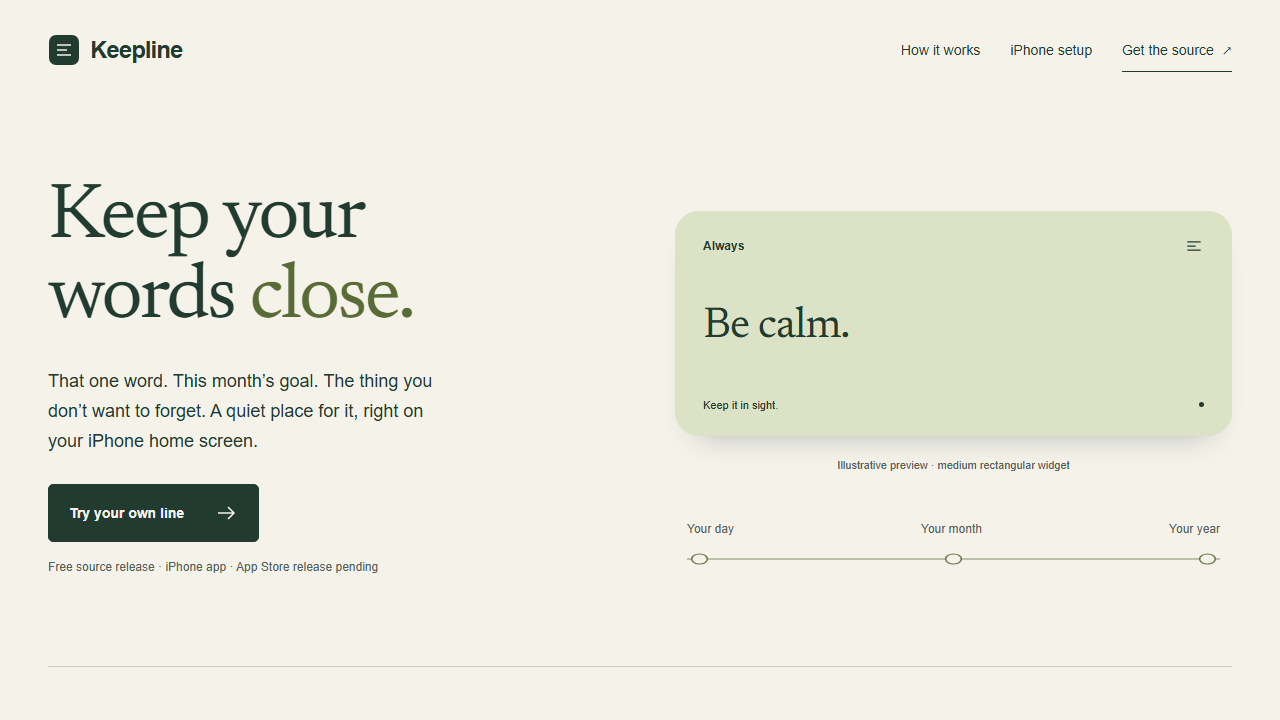
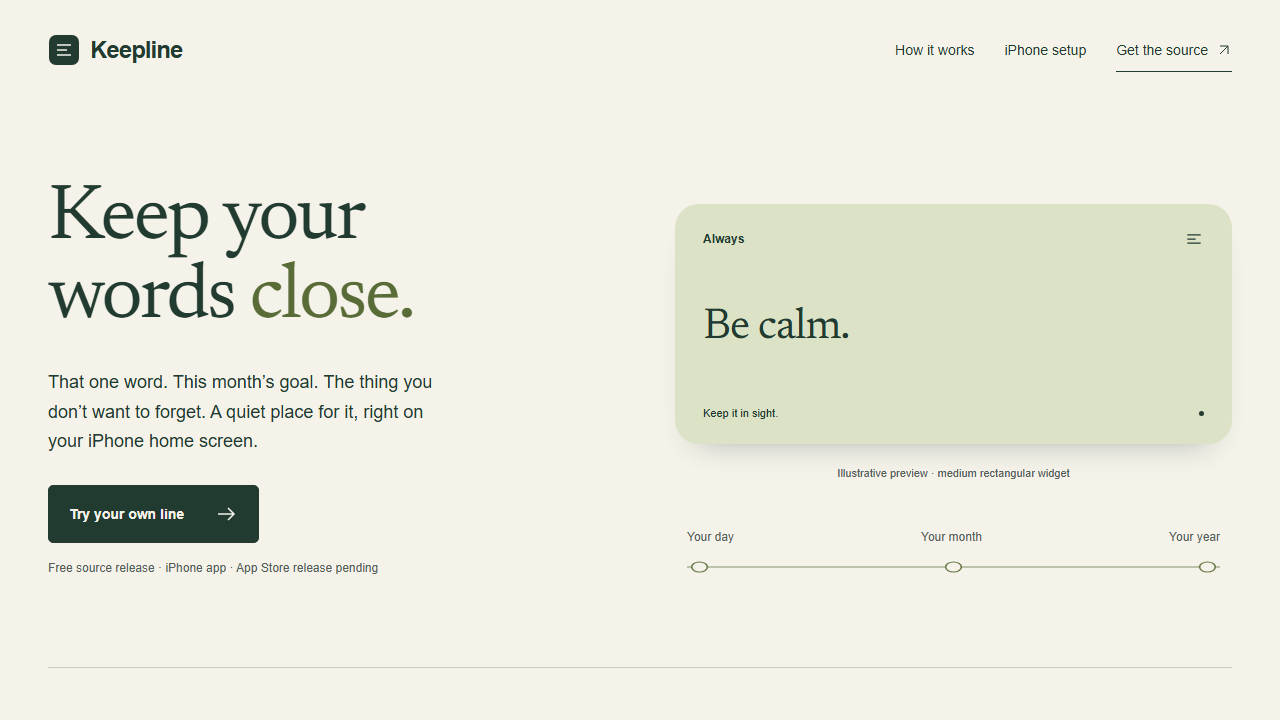
fix: bound previews and configure simulator tests

diff --git a/site/src/style.css b/site/src/style.css
@@ -1,6 +1,8 @@
 @font-face{font-family:Newsreader;src:url('/fonts/newsreader-latin.woff2') format('woff2');font-style:normal;font-weight:200 800;font-display:swap}
 :root{font-family:Arial,Helvetica,sans-serif;color:#223b31;background:#f4f2e9;font-synthesis:none;--ink:#223b31;--paper:#f4f2e9;--muted:#536259;--rule:#c9cec0;--tint:#dce2c6}
-*{box-sizing:border-box}html{scroll-behavior:smooth;scroll-padding-top:24px}body{margin:0}a{color:inherit;text-underline-offset:5px}button,input,textarea,select{font:inherit}button,a,input,textarea,select{-webkit-tap-highlight-color:transparent}a:focus-visible,button:focus-visible,input:focus-visible,textarea:focus-visible,select:focus-visible{outline:3px solid #a54b2d;outline-offset:4px}button{cursor:pointer}button:disabled{cursor:not-allowed;opacity:.55}button:disabled:focus{outline:3px solid #a54b2d}svg{width:24px;height:24px;fill:none;stroke:currentColor;stroke-width:1.5;flex:none}.skip{position:absolute;left:16px;top:-100px;z-index:10;background:var(--ink);color:white;padding:16px}.skip:focus{top:12px}header{max-width:1280px;margin:auto;padding:28px 48px;display:flex;align-items:center;justify-content:space-between}.brand{display:inline-flex;align-items:center;gap:10px;font-size:24px;letter-spacing:-.04em;font-weight:600;text-decoration:none}.brand svg{width:32px;height:32px}.brand rect{fill:var(--ink);stroke:none}.brand path{stroke:var(--paper);stroke-width:1.5}nav{display:flex;gap:30px;align-items:center;font-size:14px}nav a{min-height:44px;display:flex;align-items:center;text-decoration:none}.source{border-bottom:1px solid var(--ink);gap:8px}main{max-width:1280px;margin:auto}section{margin:0 48px}.hero{display:grid;grid-template-columns:1fr 1fr;gap:70px;padding:80px 0 88px;align-items:center}.hero h1{font-family:Newsreader,Georgia,serif;font-weight:400;letter-spacing:-.035em;font-size:clamp(3.5rem,6.1vw,5.5rem);line-height:1.02;margin:0 0 28px}.hero h1 em{font-style:normal;color:#596c37}.intro{font-size:18px;line-height:1.65;max-width:390px;margin:0 0 28px}.button{border:1px solid var(--ink);background:var(--ink);color:var(--paper);padding:16px 20px;text-decoration:none;display:inline-flex;align-items:center;justify-content:space-between;gap:30px;min-height:52px;font-size:14px;font-weight:600;border-radius:5px;transition:background .15s}.button:hover{background:#3a5748}.availability{color:var(--muted);font-size:12px;line-height:1.6;margin:16px 0 0}.widget-stage{padding-top:24px}.widget{background:var(--tint);border-radius:24px;padding:25px 28px;min-height:225px;display:flex;flex-direction:column;justify-content:space-between;box-shadow:0 18px 30px -24px #223b3170;position:relative}.widget-top,.widget-bottom{display:flex;justify-content:space-between;align-items:center;font-size:12px}.widget-top{font-weight:600}.widget-top svg{width:20px;height:20px}.widget p{font-family:Newsreader,Georgia,serif;font-size:clamp(1.4rem,3.4vw,3rem);letter-spacing:-.025em;line-height:1.16;margin:30px 0;overflow-wrap:anywhere;white-space:normal}.widget-bottom{font-size:11px}.small-dot{width:5px;height:5px;background:var(--ink);border-radius:50%}.widget-caption{font-size:11px;color:var(--muted);text-align:center;margin:20px 0 48px}.horizon{display:flex;justify-content:space-between;position:relative;gap:10px;font-size:12px;padding-bottom:35px;margin:0 12px;color:var(--muted)}.horizon svg{position:absolute;width:100%;height:24px;bottom:0;left:0;stroke:#84906b;stroke-width:1}.horizon circle{fill:var(--paper);stroke:#657744}.try{display:grid;grid-template-columns:1fr 1fr;gap:70px;border-top:1px solid var(--rule);padding:65px 0 70px}h2{font-family:Newsreader,Georgia,serif;font-size:38px;line-height:1.12;letter-spacing:-.025em;font-weight:400;margin:0 0 22px}p{line-height:1.65}.try>div>p{font-size:16px;max-width:370px}.quiet{color:var(--muted);font-size:13px!important;max-width:350px!important}label{display:block;font-size:13px;font-weight:600;margin-bottom:10px}textarea,input,select{border:1px solid #84917c;border-radius:5px;background:#fffdf6;color:var(--ink);padding:14px;min-height:48px;width:100%}textarea{resize:vertical;font-family:Newsreader,Georgia,serif;font-size:24px;line-height:1.3}textarea::placeholder{color:#657166}input[aria-invalid],textarea[aria-invalid]{border-color:#a54b2d}.field-foot{display:flex;justify-content:space-between;gap:12px;color:var(--muted);font-size:11px;margin:10px 0 24px}.period-row{display:flex;align-items:center;justify-content:space-between;gap:16px}.period-row select{width:58%;font-size:14px}.period-row label{margin:0}.date-fields{display:grid;grid-template-columns:1fr 1fr;gap:16px;margin:20px 0}.date-fields[hidden]{display:none}.form-actions{display:flex;align-items:center;gap:24px;flex-wrap:wrap;margin-top:24px}.text-button{background:none;border:0;text-decoration:underline;text-underline-offset:5px;color:var(--ink);padding:14px 0;min-height:48px;font-size:13px}#form-status{font-size:12px;color:var(--muted);margin:14px 0 0;min-height:40px}.how{padding:60px 0 65px;border-top:1px solid var(--rule)}.how h2{margin-bottom:42px}.steps{display:grid;grid-template-columns:repeat(3,1fr);gap:40px}.step-mark{display:inline-flex;width:30px;height:30px;border:1px solid #84917c;align-items:center;justify-content:center;border-radius:50%;font-size:13px;margin-bottom:14px}h3{font-size:17px;font-weight:600;margin:0 0 12px}.steps p{font-size:14px;color:var(--muted);max-width:280px}.timing{font-size:13px;max-width:780px;margin:32px 0 0;border-top:1px solid var(--rule);padding-top:22px;color:var(--muted)}.setup{background:var(--ink);color:var(--paper);margin:0;padding:65px 48px;display:grid;grid-template-columns:1fr 1fr;gap:70px}.setup>div>p{font-size:14px;max-width:365px;margin-bottom:30px}.setup .button{border-color:var(--paper);background:transparent}.setup .button:hover{background:#3a5748}.setup ol{padding-left:22px;margin:0;display:grid;gap:20px}.setup li{padding-left:10px;font-size:14px}.setup li p{font-size:13px;color:#d4dcd1;margin:8px 0 0}.privacy{display:grid;grid-template-columns:1fr 1fr;gap:70px;padding:68px 0}.privacy p{font-size:14px;color:var(--muted);margin:0 0 18px;max-width:470px}.privacy a{font-size:13px}footer{max-width:1280px;margin:auto;border-top:1px solid var(--rule);padding:28px 48px;display:flex;align-items:center;gap:28px;font-size:12px}footer .brand{font-size:20px}footer p{margin-right:auto;color:var(--muted)}footer a:not(.brand){min-height:44px;display:inline-flex;align-items:center}::selection{background:#dce2c6;color:var(--ink)}
-@media(max-width:800px){header{padding:20px 24px}nav{gap:20px}nav a:first-child{display:none}section{margin:0 24px}.hero{gap:32px;padding:55px 0 65px}.hero h1{font-size:62px}.intro{font-size:16px}.widget{padding:22px;min-height:205px}.try,.privacy{gap:32px}.try{padding:50px 0}.setup{margin:0;padding:50px 24px;gap:32px}.steps{gap:24px}footer{padding:24px;gap:20px;flex-wrap:wrap}footer p{margin:0 auto 0 0}}
-@media(max-width:580px){header{padding:18px 22px}.brand{font-size:22px}nav{gap:12px}nav a:nth-child(2){display:none}.source{font-size:12px}section{margin:0 22px}.hero{grid-template-columns:1fr;gap:25px;padding:35px 0 45px}.hero h1{font-size:66px;line-height:1.02;margin-bottom:22px}.intro{font-size:16px;max-width:320px}.availability{font-size:11px}.widget-stage{padding-top:10px}.widget{min-height:190px;border-radius:22px;padding:22px}.widget p{font-size:36px;margin:25px 0}.widget-caption{margin-bottom:26px}.horizon{margin:0 8px}.try,.privacy{grid-template-columns:1fr;gap:24px;padding:42px 0}h2{font-size:34px}.try>div>p{margin:0 0 14px}.steps{grid-template-columns:1fr;gap:20px}.how{padding:42px 0}.how h2{margin-bottom:28px}.steps article{display:grid;grid-template-columns:30px 1fr;column-gap:15px}.steps h3{margin:6px 0 8px}.steps p{grid-column:2;max-width:100%;margin:0}.step-mark{margin:0}.timing{margin-top:26px}.setup{grid-template-columns:1fr;margin:0;padding:42px 22px;gap:32px}.setup h2{font-size:34px}.setup ol{gap:24px}.privacy h2{margin-bottom:0}footer{padding:22px;gap:12px 22px}footer p{width:60%;font-size:11px}footer a:not(.brand){font-size:11px}.form-actions{gap:18px}.button{gap:18px}textarea{font-size:22px}}
+*{box-sizing:border-box}html{scroll-behavior:smooth;scroll-padding-top:24px}body{margin:0}a{color:inherit;text-underline-offset:5px}button,input,textarea,select{font:inherit}button,a,input,textarea,select{-webkit-tap-highlight-color:transparent}a:focus-visible,button:focus-visible,input:focus-visible,textarea:focus-visible,select:focus-visible{outline:3px solid #a54b2d;outline-offset:4px}button{cursor:pointer}button:disabled{cursor:not-allowed;opacity:.55}button:disabled:focus{outline:3px solid #a54b2d}svg{width:24px;height:24px;fill:none;stroke:currentColor;stroke-width:1.5;flex:none}.skip{position:absolute;left:16px;top:-100px;z-index:10;background:var(--ink);color:white;padding:16px}.skip:focus{top:12px}header{max-width:1280px;margin:auto;padding:28px 48px;display:flex;align-items:center;justify-content:space-between}.brand{display:inline-flex;align-items:center;gap:10px;font-size:24px;letter-spacing:-.04em;font-weight:600;text-decoration:none}.brand svg{width:32px;height:32px}.brand rect{fill:var(--ink);stroke:none}.brand path{stroke:var(--paper);stroke-width:1.5}nav{display:flex;gap:30px;align-items:center;font-size:14px}nav a{min-height:44px;display:flex;align-items:center;text-decoration:none}.source{border-bottom:1px solid var(--ink);gap:8px}main{max-width:1280px;margin:auto}section{margin:0 48px}.hero{display:grid;grid-template-columns:1fr 1fr;gap:70px;padding:80px 0 88px;align-items:center}.hero h1{font-family:Newsreader,Georgia,serif;font-weight:400;letter-spacing:-.035em;font-size:clamp(3.5rem,6.1vw,5.5rem);line-height:1.02;margin:0 0 28px}.hero h1 em{font-style:normal;color:#596c37}.intro{font-size:18px;line-height:1.65;max-width:390px;margin:0 0 28px}.button{border:1px solid var(--ink);background:var(--ink);color:var(--paper);padding:16px 20px;text-decoration:none;display:inline-flex;align-items:center;justify-content:space-between;gap:30px;min-height:52px;font-size:14px;font-weight:600;border-radius:5px;transition:background .15s}.button:hover{background:#3a5748}.availability{color:var(--muted);font-size:12px;line-height:1.6;margin:16px 0 0}.widget-stage{padding-top:24px}.widget{background:var(--tint);border-radius:24px;padding:25px 28px;height:240px;display:flex;flex-direction:column;justify-content:space-between;box-shadow:0 18px 30px -24px #223b3170;position:relative}.widget-top,.widget-bottom{display:flex;justify-content:space-between;align-items:center;font-size:12px}.widget-top{font-weight:600}.widget-top svg{width:20px;height:20px}.widget p{font-family:Newsreader,Georgia,serif;font-size:clamp(1.4rem,3.4vw,3rem);letter-spacing:-.025em;line-height:1.16;margin:30px 0;overflow-wrap:anywhere;white-space:normal}.widget-bottom{font-size:11px}.small-dot{width:5px;height:5px;background:var(--ink);border-radius:50%}.widget-caption{font-size:11px;color:var(--muted);text-align:center;margin:20px 0 48px}.horizon{display:flex;justify-content:space-between;position:relative;gap:10px;font-size:12px;padding-bottom:35px;margin:0 12px;color:var(--muted)}.horizon svg{position:absolute;width:100%;height:24px;bottom:0;left:0;stroke:#84906b;stroke-width:1}.horizon circle{fill:var(--paper);stroke:#657744}.try{display:grid;grid-template-columns:1fr 1fr;gap:70px;border-top:1px solid var(--rule);padding:65px 0 70px}h2{font-family:Newsreader,Georgia,serif;font-size:38px;line-height:1.12;letter-spacing:-.025em;font-weight:400;margin:0 0 22px}p{line-height:1.65}.try>div>p{font-size:16px;max-width:370px}.quiet{color:var(--muted);font-size:13px!important;max-width:350px!important}label{display:block;font-size:13px;font-weight:600;margin-bottom:10px}textarea,input,select{border:1px solid #84917c;border-radius:5px;background:#fffdf6;color:var(--ink);padding:14px;min-height:48px;width:100%}textarea{resize:vertical;font-family:Newsreader,Georgia,serif;font-size:24px;line-height:1.3}textarea::placeholder{color:#657166}input[aria-invalid],textarea[aria-invalid]{border-color:#a54b2d}.field-foot{display:flex;justify-content:space-between;gap:12px;color:var(--muted);font-size:11px;margin:10px 0 24px}.period-row{display:flex;align-items:center;justify-content:space-between;gap:16px}.period-row select{width:58%;font-size:14px}.period-row label{margin:0}.date-fields{display:grid;grid-template-columns:1fr 1fr;gap:16px;margin:20px 0}.date-fields[hidden]{display:none}.form-actions{display:flex;align-items:center;gap:24px;flex-wrap:wrap;margin-top:24px}.text-button{background:none;border:0;text-decoration:underline;text-underline-offset:5px;color:var(--ink);padding:14px 0;min-height:48px;font-size:13px}#form-status{font-size:12px;color:var(--muted);margin:14px 0 0;min-height:40px}.how{padding:60px 0 65px;border-top:1px solid var(--rule)}.how h2{margin-bottom:42px}.steps{display:grid;grid-template-columns:repeat(3,1fr);gap:40px}.step-mark{display:inline-flex;width:30px;height:30px;border:1px solid #84917c;align-items:center;justify-content:center;border-radius:50%;font-size:13px;margin-bottom:14px}h3{font-size:17px;font-weight:600;margin:0 0 12px}.steps p{font-size:14px;color:var(--muted);max-width:280px}.timing{font-size:13px;max-width:780px;margin:32px 0 0;border-top:1px solid var(--rule);padding-top:22px;color:var(--muted)}.setup{background:var(--ink);color:var(--paper);margin:0;padding:65px 48px;display:grid;grid-template-columns:1fr 1fr;gap:70px}.setup>div>p{font-size:14px;max-width:365px;margin-bottom:30px}.setup .button{border-color:var(--paper);background:transparent}.setup .button:hover{background:#3a5748}.setup ol{padding-left:22px;margin:0;display:grid;gap:20px}.setup li{padding-left:10px;font-size:14px}.setup li p{font-size:13px;color:#d4dcd1;margin:8px 0 0}.privacy{display:grid;grid-template-columns:1fr 1fr;gap:70px;padding:68px 0}.privacy p{font-size:14px;color:var(--muted);margin:0 0 18px;max-width:470px}.privacy a{font-size:13px}footer{max-width:1280px;margin:auto;border-top:1px solid var(--rule);padding:28px 48px;display:flex;align-items:center;gap:28px;font-size:12px}footer .brand{font-size:20px}footer p{margin-right:auto;color:var(--muted)}footer a:not(.brand){min-height:44px;display:inline-flex;align-items:center}::selection{background:#dce2c6;color:var(--ink)}
+@media(max-width:800px){header{padding:20px 24px}nav{gap:20px}nav a:first-child{display:none}section{margin:0 24px}.hero{gap:32px;padding:55px 0 65px}.hero h1{font-size:62px}.intro{font-size:16px}.widget{padding:22px;height:240px}.try,.privacy{gap:32px}.try{padding:50px 0}.setup{margin:0;padding:50px 24px;gap:32px}.steps{gap:24px}footer{padding:24px;gap:20px;flex-wrap:wrap}footer p{margin:0 auto 0 0}}
+@media(max-width:580px){header{padding:18px 22px}.brand{font-size:22px}nav{gap:12px}nav a:nth-child(2){display:none}.source{font-size:12px}section{margin:0 22px}.hero{grid-template-columns:1fr;gap:25px;padding:35px 0 45px}.hero h1{font-size:66px;line-height:1.02;margin-bottom:22px}.intro{font-size:16px;max-width:320px}.availability{font-size:11px}.widget-stage{padding-top:10px}.widget{height:210px;border-radius:22px;padding:22px}.widget p{font-size:36px;margin:25px 0}.widget-caption{margin-bottom:26px}.horizon{margin:0 8px}.try,.privacy{grid-template-columns:1fr;gap:24px;padding:42px 0}h2{font-size:34px}.try>div>p{margin:0 0 14px}.steps{grid-template-columns:1fr;gap:20px}.how{padding:42px 0}.how h2{margin-bottom:28px}.steps article{display:grid;grid-template-columns:30px 1fr;column-gap:15px}.steps h3{margin:6px 0 8px}.steps p{grid-column:2;max-width:100%;margin:0}.step-mark{margin:0}.timing{margin-top:26px}.setup{grid-template-columns:1fr;margin:0;padding:42px 22px;gap:32px}.setup h2{font-size:34px}.setup ol{gap:24px}.privacy h2{margin-bottom:0}footer{padding:22px;gap:12px 22px}footer p{width:60%;font-size:11px}footer a:not(.brand){font-size:11px}.form-actions{gap:18px}.button{gap:18px}textarea{font-size:22px}}
 @media(prefers-reduced-motion:reduce){html{scroll-behavior:auto}*{transition:none!important}}
+
+.widget p{display:-webkit-box;-webkit-box-orient:vertical;-webkit-line-clamp:4;overflow:hidden;margin:12px 0;flex-shrink:1;min-height:0}.widget p.long-line{font-size:22px;line-height:1.15}.inline-preview{display:none}.source svg,.external-link svg{width:16px;height:16px}.external-link{display:inline-flex;align-items:center;gap:8px}@media(max-width:580px){.inline-preview{display:block;margin:0 0 22px}.inline-preview .widget{height:180px;padding:18px 22px;box-shadow:none}.inline-preview .widget p{font-size:30px}.inline-preview .widget p.long-line{font-size:18px}.inline-caption{font-size:11px;color:var(--muted);margin:10px 0}.widget p.long-line{font-size:20px}}

diff --git a/site/index.html b/site/index.html
@@ -12,7 +12,7 @@
     <a class="skip" href="#main">Skip to content</a>
     <header>
       <a class="brand" href="#main" aria-label="Keepline home"><svg viewBox="0 0 32 32" aria-hidden="true"><rect x="1" y="1" width="30" height="30" rx="7"/><path d="M9 11h14M9 16h10M9 21h14"/></svg>Keepline</a>
-      <nav aria-label="Main navigation"><a href="#how">How it works</a><a href="#setup">iPhone setup</a><a class="source" href="https://github.com/kandulanikhilvarma/keepline">Get the source <span aria-hidden="true">↗</span></a></nav>
+      <nav aria-label="Main navigation"><a href="#how">How it works</a><a href="#setup">iPhone setup</a><a class="source" href="https://github.com/kandulanikhilvarma/keepline">Get the source <svg viewBox="0 0 24 24" aria-hidden="true"><path d="M6 18L18 6M6 6h12v12"/></svg></a></nav>
     </header>
     <main id="main">
       <section class="hero" aria-labelledby="hero-title">
@@ -38,6 +38,7 @@
           <label for="line">Your line</label>
           <textarea id="line" rows="2" placeholder="For example: Be calm." aria-describedby="line-help form-status"></textarea>
           <div class="field-foot"><span id="line-help">One thought, up to 140 characters.</span><span id="count">0 / 140</span></div>
+          <div class="inline-preview"><div class="widget" id="inline-widget" role="img" aria-label="Example rectangular widget: Be calm."><div class="widget-top"><span id="inline-period">Always</span><svg viewBox="0 0 24 24" aria-hidden="true"><path d="M4 7h16M4 12h10M4 17h16"/></svg></div><p id="inline-line">Be calm.</p><div class="widget-bottom">Keep it in sight.<span aria-hidden="true" class="small-dot"></span></div></div><p class="inline-caption">Live browser preview · not synced to iPhone</p></div>
           <div class="period-row"><label for="period">Keep it in sight</label><select id="period"><option value="always">Always</option><option value="today">Today</option><option value="month">This month</option><option value="year">This year</option><option value="custom">Custom dates</option></select></div>
           <div class="date-fields" id="date-fields" hidden><div><label for="start">Start date</label><input id="start" type="date" /></div><div><label for="end">End date</label><input id="end" type="date" /></div></div>
           <div class="form-actions"><button class="button" id="save" type="submit" disabled>Save browser draft</button><button class="text-button" id="clear" type="button">Clear draft</button></div>
@@ -53,7 +54,7 @@
         <div><h2 id="setup-title">Made for iPhone.<br/>Ready for your first build.</h2><p>The native app and widget are open source. This release has no App Store or TestFlight download yet.</p><a class="button" href="https://github.com/kandulanikhilvarma/keepline/blob/main/docs/APPLE-SETUP.md">Open the iPhone setup guide <svg viewBox="0 0 24 24" aria-hidden="true"><path d="M4 12h16M14 6l6 6-6 6"/></svg></a></div>
         <ol><li><strong>Build on a Mac with Xcode.</strong><p>Generate the included Xcode project. Select your Apple team and configure the App Group for both targets.</p></li><li><strong>Install and save your first line.</strong><p>Run the app on your iPhone. Apple signing and the App Group must be active for the shared widget data.</p></li><li><strong>Add Keepline to your home screen.</strong><p>Touch and hold the home screen. Tap Edit, then Add Widget. Search for Keepline and choose the rectangle.</p></li></ol>
       </section>
-      <section class="privacy" id="privacy" aria-labelledby="privacy-title"><h2 id="privacy-title">A private place<br/>for personal words.</h2><div><p>The iPhone app stores your lines on your device. No account. No remote database. No analytics or advertising.</p><p>You can export your library as a backup and import it later. Backups contain plain text, so keep them somewhere private.</p><p>Your widget is visible to anyone who can see your screen. The site stores its preview draft in this browser only. The hosting provider receives normal web requests.</p><a href="https://github.com/kandulanikhilvarma/keepline/blob/main/SECURITY.md">Read the security notes <span aria-hidden="true">↗</span></a></div></section>
+      <section class="privacy" id="privacy" aria-labelledby="privacy-title"><h2 id="privacy-title">A private place<br/>for personal words.</h2><div><p>The iPhone app stores your lines on your device. No account. No remote database. No analytics or advertising.</p><p>You can export your library as a backup and import it later. Backups contain plain text, so keep them somewhere private.</p><p>Your widget is visible to anyone who can see your screen. The site stores its preview draft in this browser only. The hosting provider receives normal web requests.</p><a class="external-link" href="https://github.com/kandulanikhilvarma/keepline/blob/main/SECURITY.md">Read the security notes <svg viewBox="0 0 24 24" aria-hidden="true"><path d="M6 18L18 6M6 6h12v12"/></svg></a></div></section>
     </main>
     <footer><a class="brand" href="#main">Keepline</a><p>Your own words, in sight.</p><a href="https://github.com/kandulanikhilvarma/keepline">Source &amp; Apache-2.0 license</a><a href="mailto:kandulanikhilvarma@gmail.com">Support</a></footer>
     <script type="module" src="/src/main.ts"></script>

diff --git a/site/tests/preview.spec.ts b/site/tests/preview.spec.ts
@@ -45,6 +45,18 @@ test('storage failure gives an honest recovery message', async ({ page }) => {
   await expect(page.getByRole('button', { name: 'Save browser draft' })).toBeEnabled();
 });
 
+test('long lines stay inside the rectangle and mobile input has a nearby preview', async ({ page }, testInfo) => {
+  await page.goto('/');
+  const before = await page.locator('.widget-stage .widget').boundingBox();
+  await page.getByLabel('Your line', { exact: true }).fill('Remember this goal. '.repeat(7));
+  const after = await page.locator('.widget-stage .widget').boundingBox();
+  expect(after?.height).toBe(before?.height);
+  if (testInfo.project.name === 'mobile') {
+    await expect(page.locator('#inline-line')).toBeVisible();
+    await expect(page.locator('#inline-line')).toHaveText('Remember this goal. '.repeat(7).trim());
+  }
+});
+
 test('responsive layout, links, keyboard focus, and accessibility', async ({ page }, testInfo) => {
   await page.goto('/');
   await expect(page.getByRole('heading', { level: 1 })).toBeVisible();

diff --git a/site/src/main.ts b/site/src/main.ts
@@ -25,6 +25,10 @@ function update() {
   query('date-fields').hidden = period.value !== 'custom';
   query('widget-line').textContent = value || 'Be calm.';
   query('widget-period').textContent = labels[period.value] ?? 'Always';
+  query('inline-line').textContent = value || 'Be calm.';
+  query('inline-period').textContent = labels[period.value] ?? 'Always';
+  for (const line of [query('widget-line'), query('inline-line')]) line.classList.toggle('long-line', length(value) > 60);
+  query('inline-widget').setAttribute('aria-label', `${value ? 'Your browser preview' : 'Example rectangular widget'}: ${value || 'Be calm.'}`);
   const widget = document.querySelector('.widget')!;
   widget.setAttribute('aria-label', `${value ? 'Your browser preview' : 'Example rectangular widget'}: ${value || 'Be calm.'}`);
   query('preview-label').textContent = value ? 'Your browser preview · not synced to iPhone' : 'Illustrative preview · medium rectangular widget';
